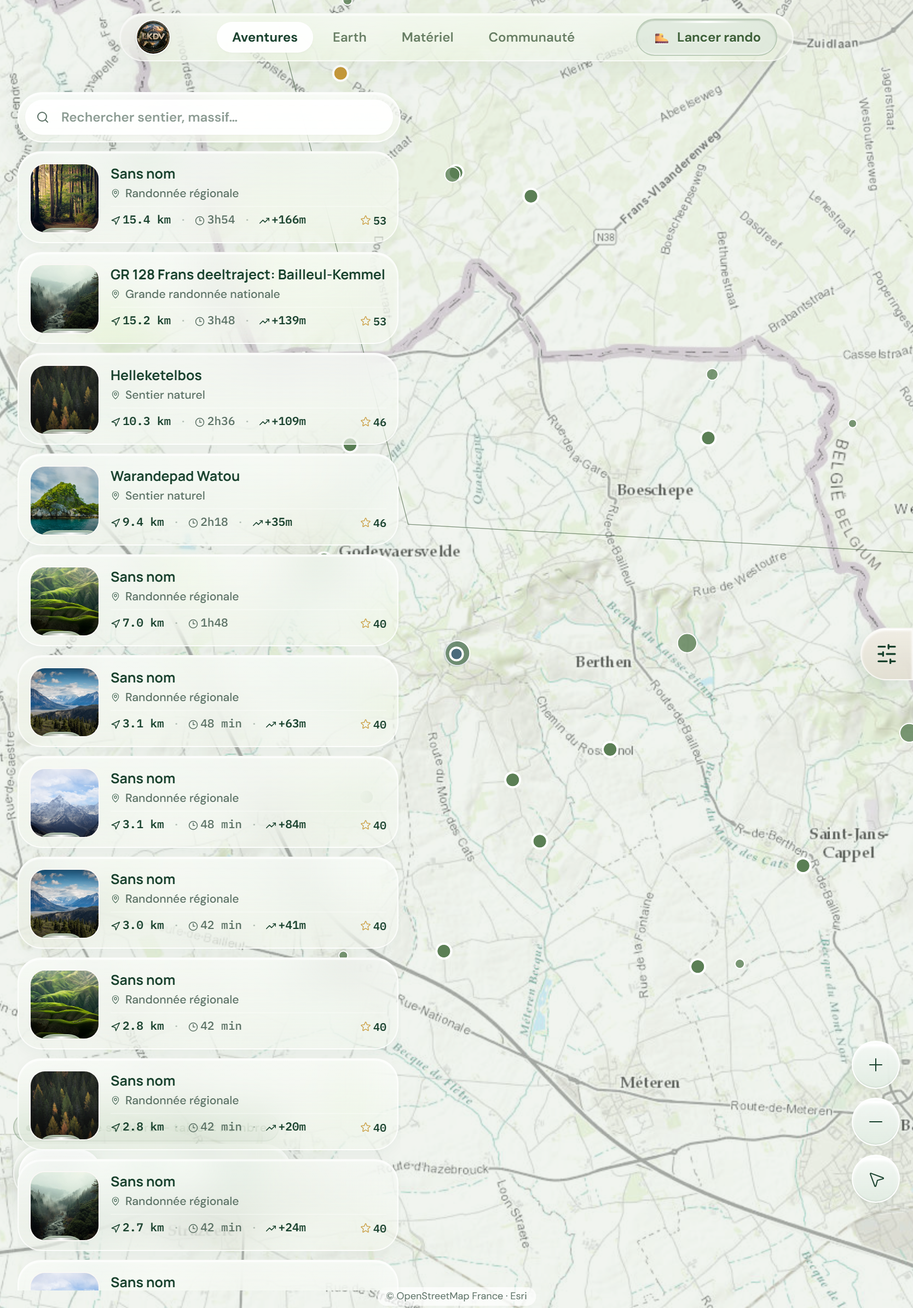
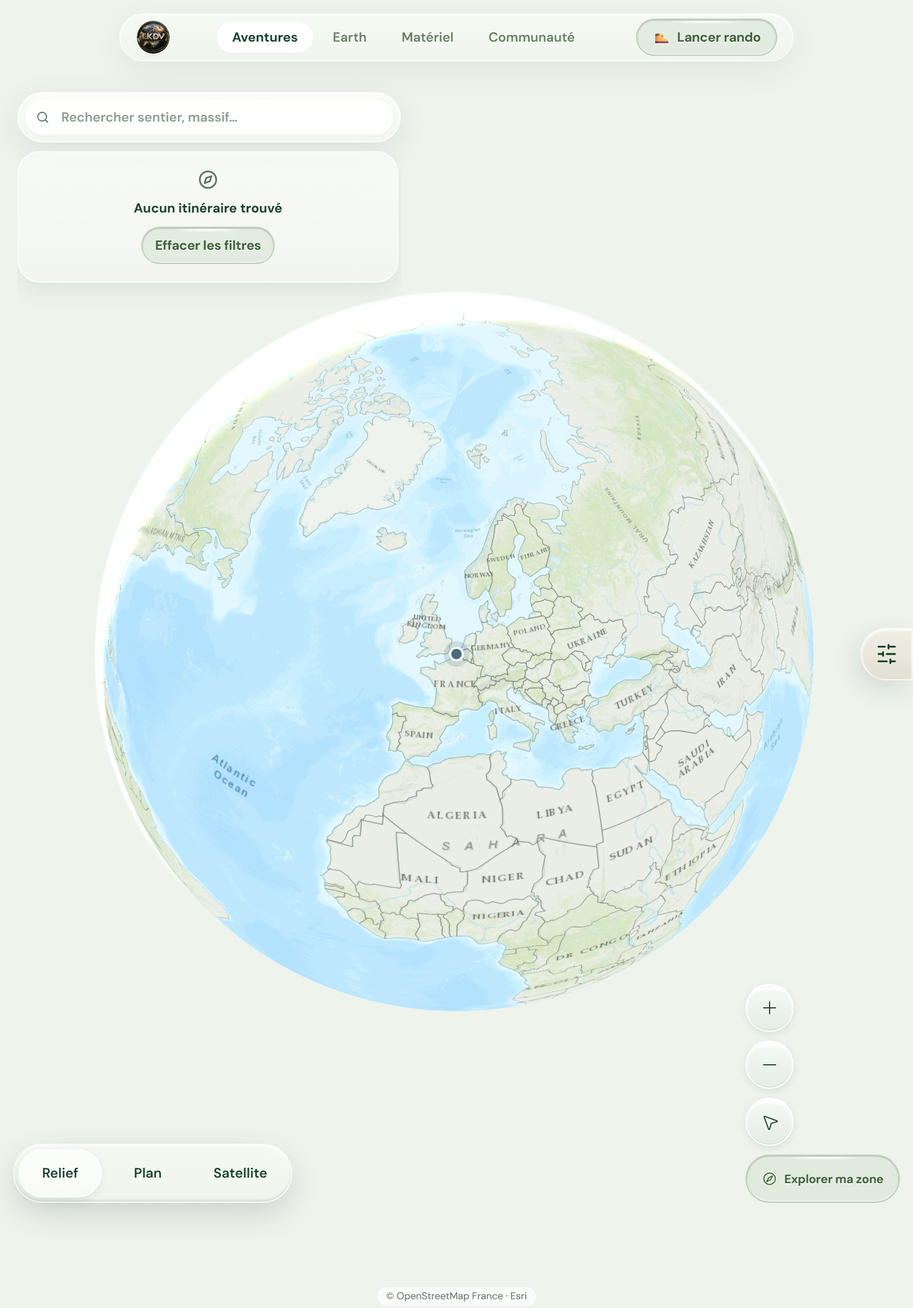
feat(atlas): simplification UX mobile -- action unique Explorer ma zone, zoom compact, tuiles icones en haut, legende desktop-only, attribution lisible

diff --git a/src/components/map/UnifiedExplorerMap.tsx b/src/components/map/UnifiedExplorerMap.tsx
@@ -817,6 +817,9 @@ export default function UnifiedExplorerMap({
   const bottomControlsOffset = safeControls
     ? 'bottom-[calc(env(safe-area-inset-bottom,0px)+96px)]'
     : 'bottom-4';
+  const desktopTilesOffset = safeControls
+    ? 'md:bottom-[calc(env(safe-area-inset-bottom,0px)+96px)]'
+    : 'md:bottom-4';
 
   return (
     <div
@@ -832,7 +835,33 @@ export default function UnifiedExplorerMap({
         </div>
       )}
 
-      {/* Zoom + recentrage (44px, glass) */}
+      {/* Contrôles mobiles simplifiés :
+          - une action centrale « Explorer ma zone » / « Vue globe » ;
+          - zoom compact à droite (pincer pour zoomer reste natif) ;
+          - fond de carte en haut à gauche, icônes seules.
+          ⚠ Les classes `.glass-*` imposent leur `display` : les bascules
+          responsives passent par des wrappers, jamais directement dessus. */}
+
+      {/* Action principale — mobile (centrée, seule au-dessus de la tab bar) */}
+      <div
+        className={`absolute left-1/2 -translate-x-1/2 ${bottomControlsOffset} z-[510] md:hidden`}
+        data-atlas-primary-cta="mobile"
+      >
+        <button
+          type="button"
+          onClick={handleToggleGlobe}
+          className="glass-capsule-btn !min-h-[48px] px-4 flex items-center justify-center gap-2 shadow-lg cursor-pointer active:scale-95"
+          aria-label={viewMode === 'globe' ? 'Explorer ma zone (vue locale)' : 'Afficher le globe'}
+          aria-pressed={viewMode === 'local'}
+        >
+          <Icon name="compass" size={15} />
+          <span className="text-[12px] font-bold whitespace-nowrap">
+            {viewMode === 'globe' ? 'Explorer ma zone' : 'Vue globe'}
+          </span>
+        </button>
+      </div>
+
+      {/* Zoom (−/+) + recentrage : mobile = zoom seul ; desktop = colonne complète */}
       <div
         className={`absolute right-3 ${bottomControlsOffset} z-[500] flex flex-col gap-2`}
         data-atlas-controls="right"
@@ -855,45 +884,49 @@ export default function UnifiedExplorerMap({
         >
           <Icon name="minus" size={16} />
         </button>
-        <button
-          type="button"
-          onClick={handleRecenter}
-          className="glass-circle-btn w-11 h-11 shadow-lg flex items-center justify-center cursor-pointer active:scale-95"
-          aria-label="Me recentrer"
-          title="Me recentrer"
-        >
-          <Icon name="navigation" size={16} />
-        </button>
-        <button
-          type="button"
-          onClick={handleToggleGlobe}
-          className="glass-capsule-btn min-h-[44px] px-3 flex items-center justify-center gap-1.5 shadow-lg cursor-pointer active:scale-95"
-          aria-label={viewMode === 'globe' ? 'Explorer ma zone (vue locale)' : 'Afficher le globe'}
-          title={viewMode === 'globe' ? 'Explorer ma zone' : 'Vue globe'}
-          aria-pressed={viewMode === 'local'}
-        >
-          <Icon name="compass" size={14} />
-          <span className="text-[11px] font-bold whitespace-nowrap">
-            {viewMode === 'globe' ? 'Explorer ma zone' : 'Vue globe'}
-          </span>
-        </button>
+        <div className="hidden md:contents">
+          <button
+            type="button"
+            onClick={handleRecenter}
+            className="glass-circle-btn w-11 h-11 shadow-lg flex items-center justify-center cursor-pointer active:scale-95"
+            aria-label="Me recentrer"
+            title="Me recentrer"
+          >
+            <Icon name="navigation" size={16} />
+          </button>
+          <button
+            type="button"
+            onClick={handleToggleGlobe}
+            className="glass-capsule-btn !min-h-[44px] px-3 flex items-center justify-center gap-1.5 shadow-lg cursor-pointer active:scale-95"
+            aria-label={viewMode === 'globe' ? 'Explorer ma zone (vue locale)' : 'Afficher le globe'}
+            title={viewMode === 'globe' ? 'Explorer ma zone' : 'Vue globe'}
+            aria-pressed={viewMode === 'local'}
+          >
+            <Icon name="compass" size={14} />
+            <span className="text-[11px] font-bold whitespace-nowrap">
+              {viewMode === 'globe' ? 'Explorer ma zone' : 'Vue globe'}
+            </span>
+          </button>
+        </div>
       </div>
 
-      {/* Légende densité (paliers continent/région : taille ∝ nombre de sentiers) */}
+      {/* Légende densité — desktop uniquement (simplicité mobile) */}
       {viewport && viewport.zoom > 2.4 && viewport.zoom < 14.4 && (
         <div
-          className={`absolute left-3 ${
+          className={`hidden md:block absolute left-3 ${
             safeControls ? 'bottom-[calc(env(safe-area-inset-bottom,0px)+152px)]' : 'bottom-20'
-          } z-[500] glass-pill text-[10px] font-semibold pointer-events-none`}
+          } z-[500] pointer-events-none`}
           data-atlas-density-legend="true"
         >
-          ● Densité de sentiers — taille ∝ nombre
+          <div className="glass-pill text-[10px] font-semibold">
+            ● Densité de sentiers — taille ∝ nombre
+          </div>
         </div>
       )}
 
-      {/* Fond de carte (capsule glass) */}
+      {/* Fond de carte — mobile : icônes en haut à gauche ; desktop : libellés en bas à gauche */}
       <div
-        className={`absolute left-3 ${bottomControlsOffset} z-[500] glass-capsule-bar flex items-center`}
+        className={`absolute left-3 top-[calc(env(safe-area-inset-top,0px)+10px)] md:top-auto ${desktopTilesOffset} z-[500] glass-capsule-bar flex items-center`}
         data-atlas-controls="tiles"
         role="group"
         aria-label="Fond de carte"
@@ -903,19 +936,25 @@ export default function UnifiedExplorerMap({
             key={mode}
             type="button"
             onClick={() => setTileMode(mode)}
-            className={`glass-capsule-segment px-3 min-h-[44px] text-[11px] font-semibold cursor-pointer ${
+            className={`glass-capsule-segment !w-12 !min-w-0 !px-0 md:!w-auto md:!min-w-[76px] md:!px-[18px] !min-h-[44px] text-[11px] font-semibold cursor-pointer flex items-center justify-center ${
               tileMode === mode ? 'active' : ''
             }`}
             aria-pressed={tileMode === mode}
+            aria-label={mode === 'topo' ? 'Relief' : mode === 'osm' ? 'Plan' : 'Satellite'}
             title={mode === 'topo' ? 'Relief' : mode === 'osm' ? 'Plan' : 'Satellite'}
           >
-            {mode === 'topo' ? 'Relief' : mode === 'osm' ? 'Plan' : 'Satellite'}
+            <span className="md:hidden inline-flex">
+              <Icon name={mode === 'topo' ? 'mountain' : mode === 'osm' ? 'map' : 'layers'} size={16} />
+            </span>
+            <span className="hidden md:inline">
+              {mode === 'topo' ? 'Relief' : mode === 'osm' ? 'Plan' : 'Satellite'}
+            </span>
           </button>
         ))}
       </div>
 
-      {/* Attribution légère (obligatoire pour les tuiles) */}
-      <div className="absolute left-1/2 -translate-x-1/2 bottom-[calc(env(safe-area-inset-bottom,0px)+2px)] z-[400] text-[9px] leading-none text-[#5A7064] bg-white/70 px-2 py-1 rounded-full pointer-events-none">
+      {/* Attribution légère (obligatoire pour les tuiles) — mobile : haut droite ; desktop : bas centre */}
+      <div className="absolute z-[400] right-3 top-[calc(env(safe-area-inset-top,0px)+16px)] md:right-auto md:left-1/2 md:-translate-x-1/2 md:top-auto md:bottom-[calc(env(safe-area-inset-bottom,0px)+2px)] text-[9px] leading-none text-[#5A7064] bg-white/70 px-2 py-1 rounded-full pointer-events-none">
         © OpenStreetMap France · Esri
       </div>
 

diff --git a/MISSION_LOG.md b/MISSION_LOG.md
@@ -902,4 +902,12 @@ Aucune de ces étapes ne doit être improvisée sans le palier 100 % — c'est l
   - **Cause racine expérimentale** : le globe du chantier était **pratiquement invisible** — la plongée d'ouverture durait ~1 s et en `prefers-reduced-motion` elle **sautait le globe entièrement** (reproduit : `reduced-motion → zoom 6 immédiat`), puis à l'échelle locale l'interface ressemble légitimement à une carte plate. Les captures du chantier montraient le globe, mais jamais l'usage réel.
   - **Correctif racine** : `/explorer` **ouvre sur le globe et y reste** (plus d'auto-plongée) ; bouton libellé **« Explorer ma zone »** (44 px, à droite) qui plonge vers la position utilisateur (sinon dernière vue locale/vue initiale) ; « Vue globe » pour remonter ; `prefers-reduced-motion` → globe conservé, plongée non animée.
   - Preuves : `docs/atlas/captures/atlas-explorer-globe-default.png` + état `{"zoom":1.6,"projection":"globe"}` ; suites visuelles 6/6, e2e 2/2 (`3 × net::ERR_ABORTED`), `tsc` 0.
+- **Simplification UX mobile de l'explorateur (demande propriétaire « simplicité maximale comme avant », globe inchangé)** — skill `ux-mobile` + `apple-ui-designer` + `interaction-design` appliqués :
+  - **Une seule action principale** centrée au-dessus de la tab bar : « Explorer ma zone » (globe) ⇄ « Vue globe » (local), 48 px.
+  - **Zoom compact** : 2 boutons (−/+) à droite ; bouton « me recentrer » retiré en mobile (l'action principale recentre ; pincer reste natif). Colonne complete conservée en desktop.
+  - **Fond de carte** : capsule d'icônes 48 px en haut à gauche (relief/map/layers, `aria-label`), libellés texte conservés en desktop.
+  - **Densité : légende desktop-only** ; **attribution** déplacée en haut à droite en mobile (lisible, plus cachée derrière la tab bar).
+  - Inventaire mesuré avant/après (éléments flottants z≥100) : avant = légende 243 px + capsule 255 px + pile 103×190 px + attribution sous la tab bar ; après = tuiles 162×54 (haut), CTA 109×48 (centre bas), zoom 44×96 (droite), attribution 145×17 (haut droite) — aucun chevauchement à 360 et 430 px.
+  - **Piège CSS documenté** : les classes `.glass-*` imposent `display`/`min-width`/`min-height` (comme `.glass` imposait `position: relative`) — toute bascule responsive ou taille passe par un wrapper ou un utilitaire `!important` (jamais `hidden`/`w-11` directement sur un élément glass).
+  - Preuves : captures `test-results/mobile-iphone-14-pro-{globe,local}.png`, suites visuelles 8 passés / 10 skips desktop-only (globe + mobile + /pays), e2e 2/2, `tsc` 0.
 
